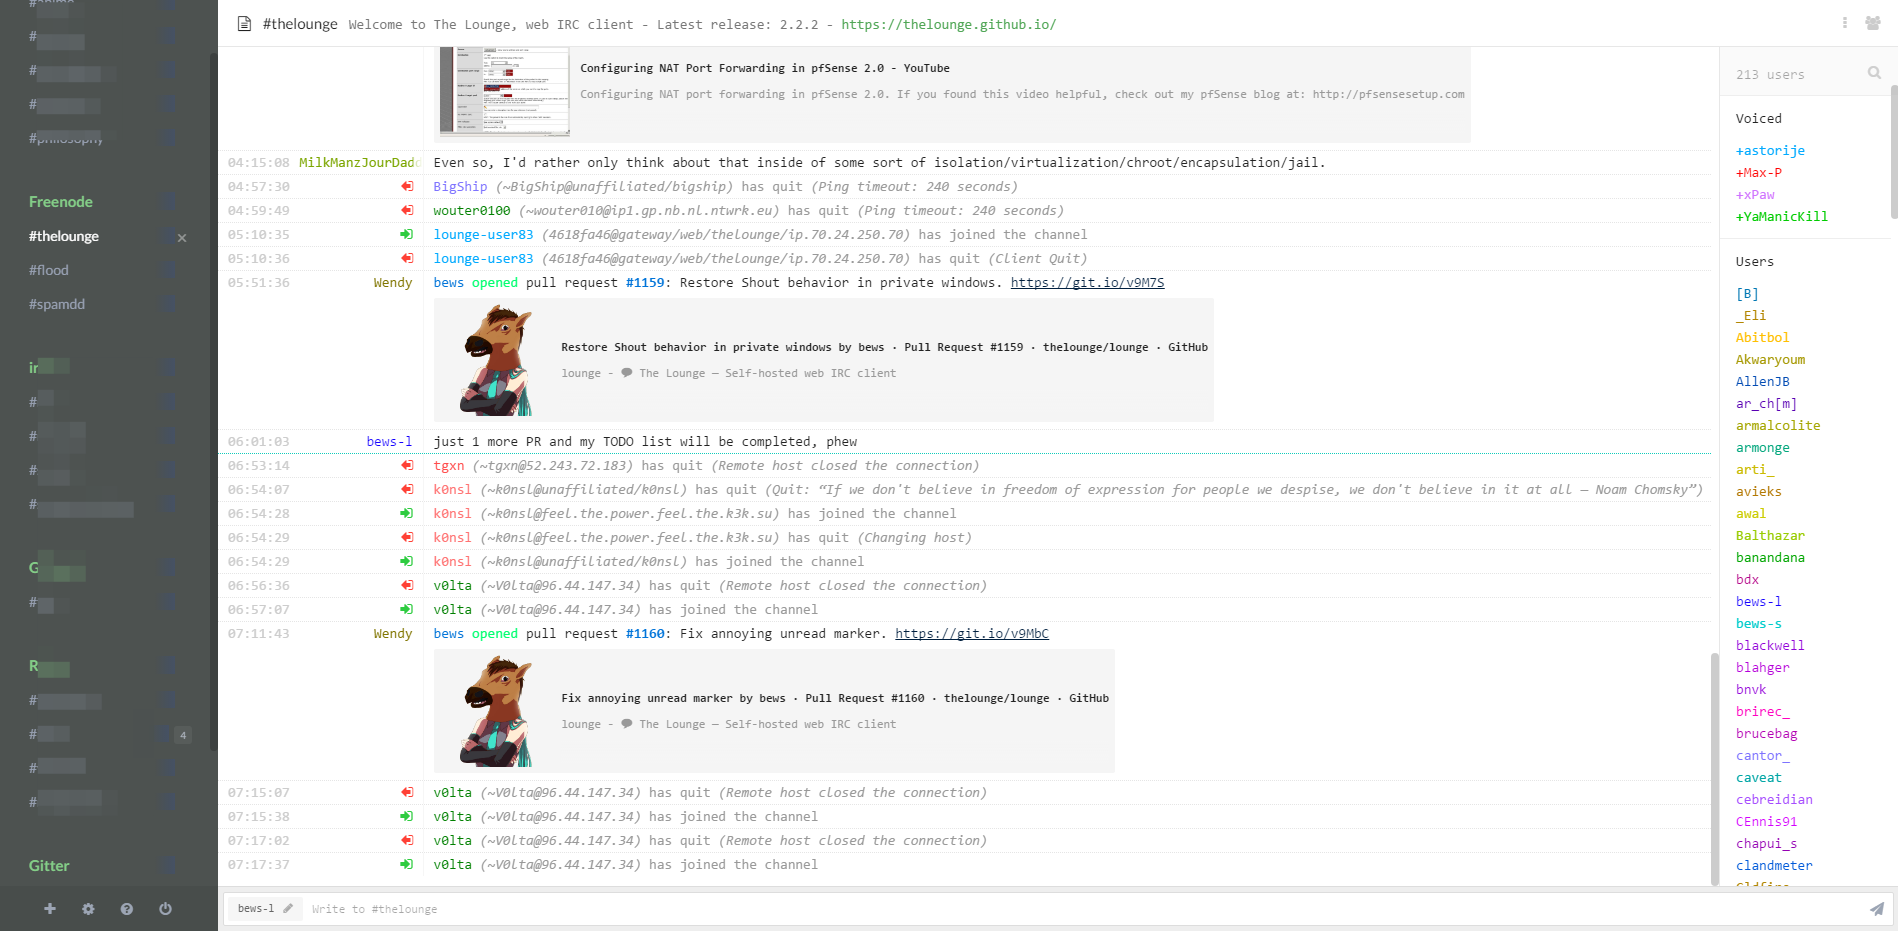
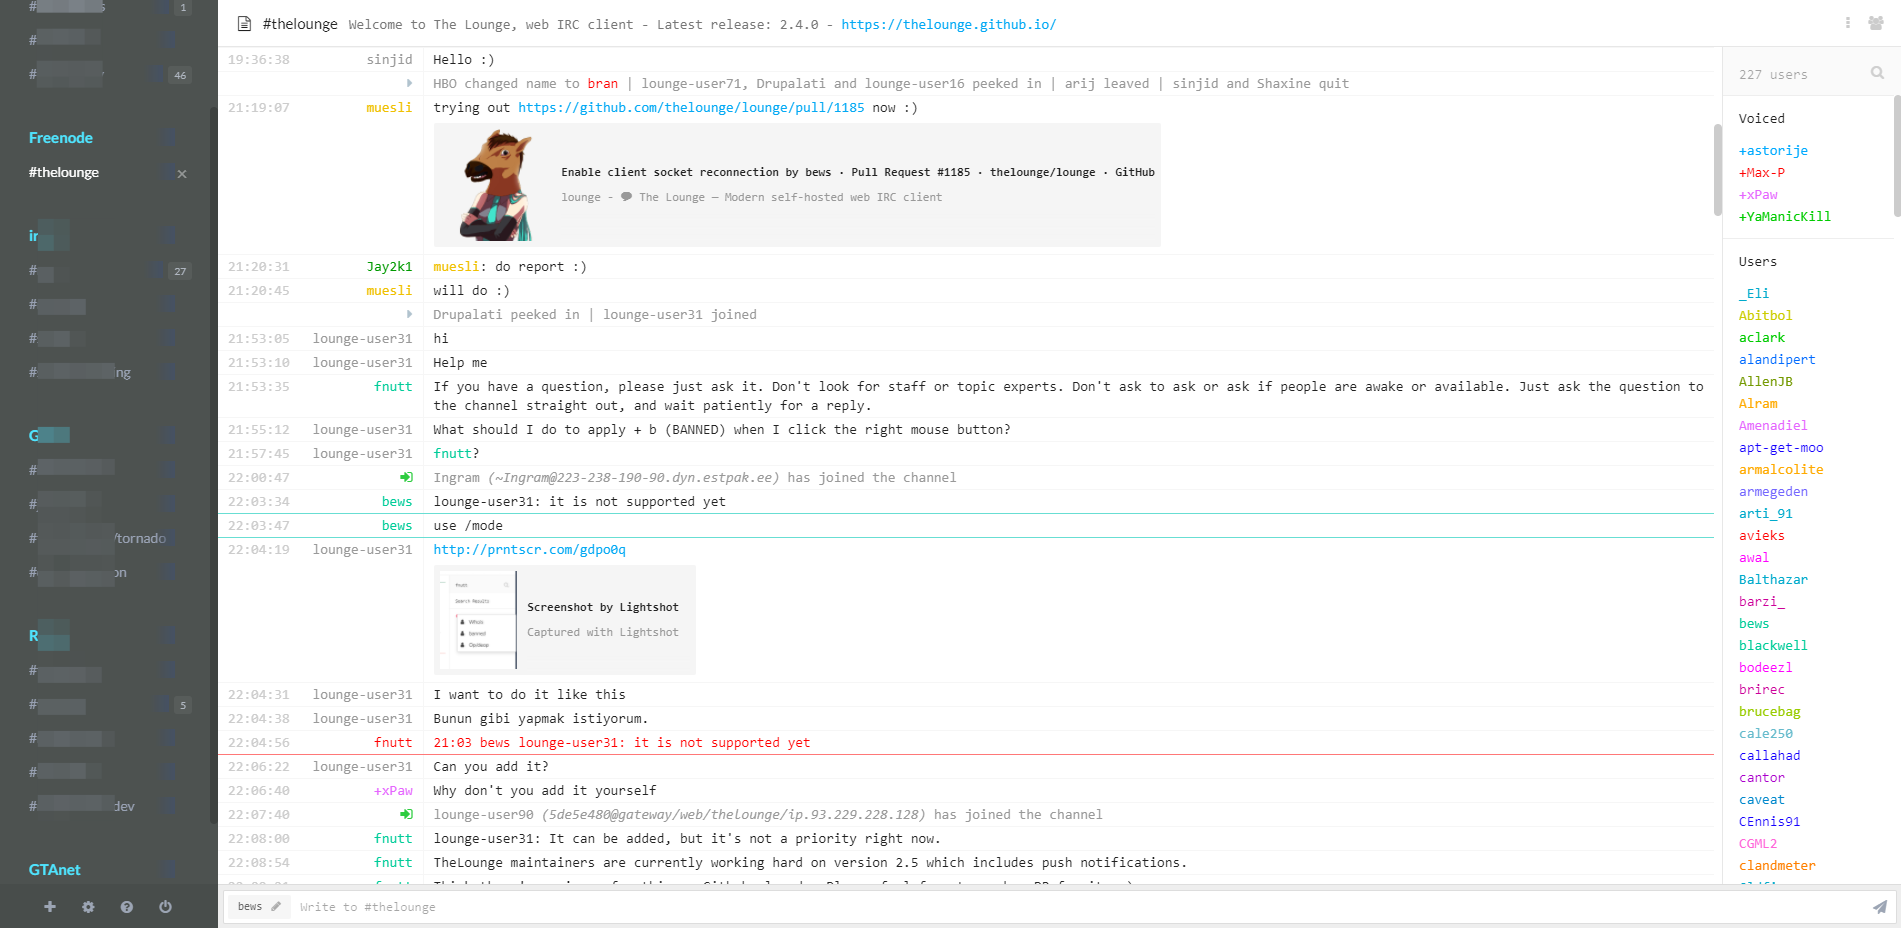
Updated design

diff --git a/light.css b/light.css
@@ -8,15 +8,20 @@ Author: Bews
 GitHub: https://github.com/bews/lounge-light
 */
 
-body { background: #4D5250; }
+body { background: #4d5250; }
 
 #chat .self .text { color: #222; }
-#chat .time { color: #CCC !important; }
+#chat .time { color: #ccc !important; }
 
-#chat .chat, #chat .sidebar { top: 48px !important; }
-#chat .msg  { border-top: 1px dotted #E5E5E5; }
-#chat .msg.self + .msg { border-top: 1px dotted rgb(17,204,186); }
-#chat .msg.highlight + .msg { border-top: 1px dotted rgb(255,100,100); }
+#sidebar .chan:first-child { color: #4fe5ff; }
+#sidebar .chan:first-child:hover,
+#sidebar .chan:first-child.active { color: #fff; }
+
+#chat .chat,
+#chat .sidebar { top: 48px !important; }
+#chat .msg { border-top: 1px solid #f6f6f6; }
+#chat .msg.self + .msg { border-top: 1px solid rgb(104, 222, 211); }
+#chat .msg.highlight + .msg { border-top: 1px solid rgb(255,120,120); }
 
 #chat .msg.self + #chat .msg,
 #chat .date-marker + .msg,
@@ -26,7 +31,7 @@ body { background: #4D5250; }
 	border-top: none !important;
 }
 
-#chat .names { margin-top: -10px; }
+#chat .names > div:first-child { margin-top: -10px; }
 
 #chat .user-mode:before {
 	border-bottom: none;
@@ -35,9 +40,14 @@ body { background: #4D5250; }
 	margin-top: 10px;
 }
 
-::-webkit-scrollbar-thumb:vertical { background: rgba(0,0,0,0.2); }
+::-webkit-scrollbar-thumb:vertical { background: rgba(0, 0, 0, .2); }
 
-#chat a { color: #50a656; }
+#chat a { color: #03a9f4; }
 
 #sidebar .chan:before { display: none; }
-#sidebar .chan, #sidebar .chan-placeholder { padding: 6px 10px 8px 10px; }
+
+#sidebar .chan,
+#sidebar .chan-placeholder { padding: 6px 10px 8px 10px; }
+
+#chat .action .text { color: #f39c12; }
+#chat .topic .text { color: #009300; }
